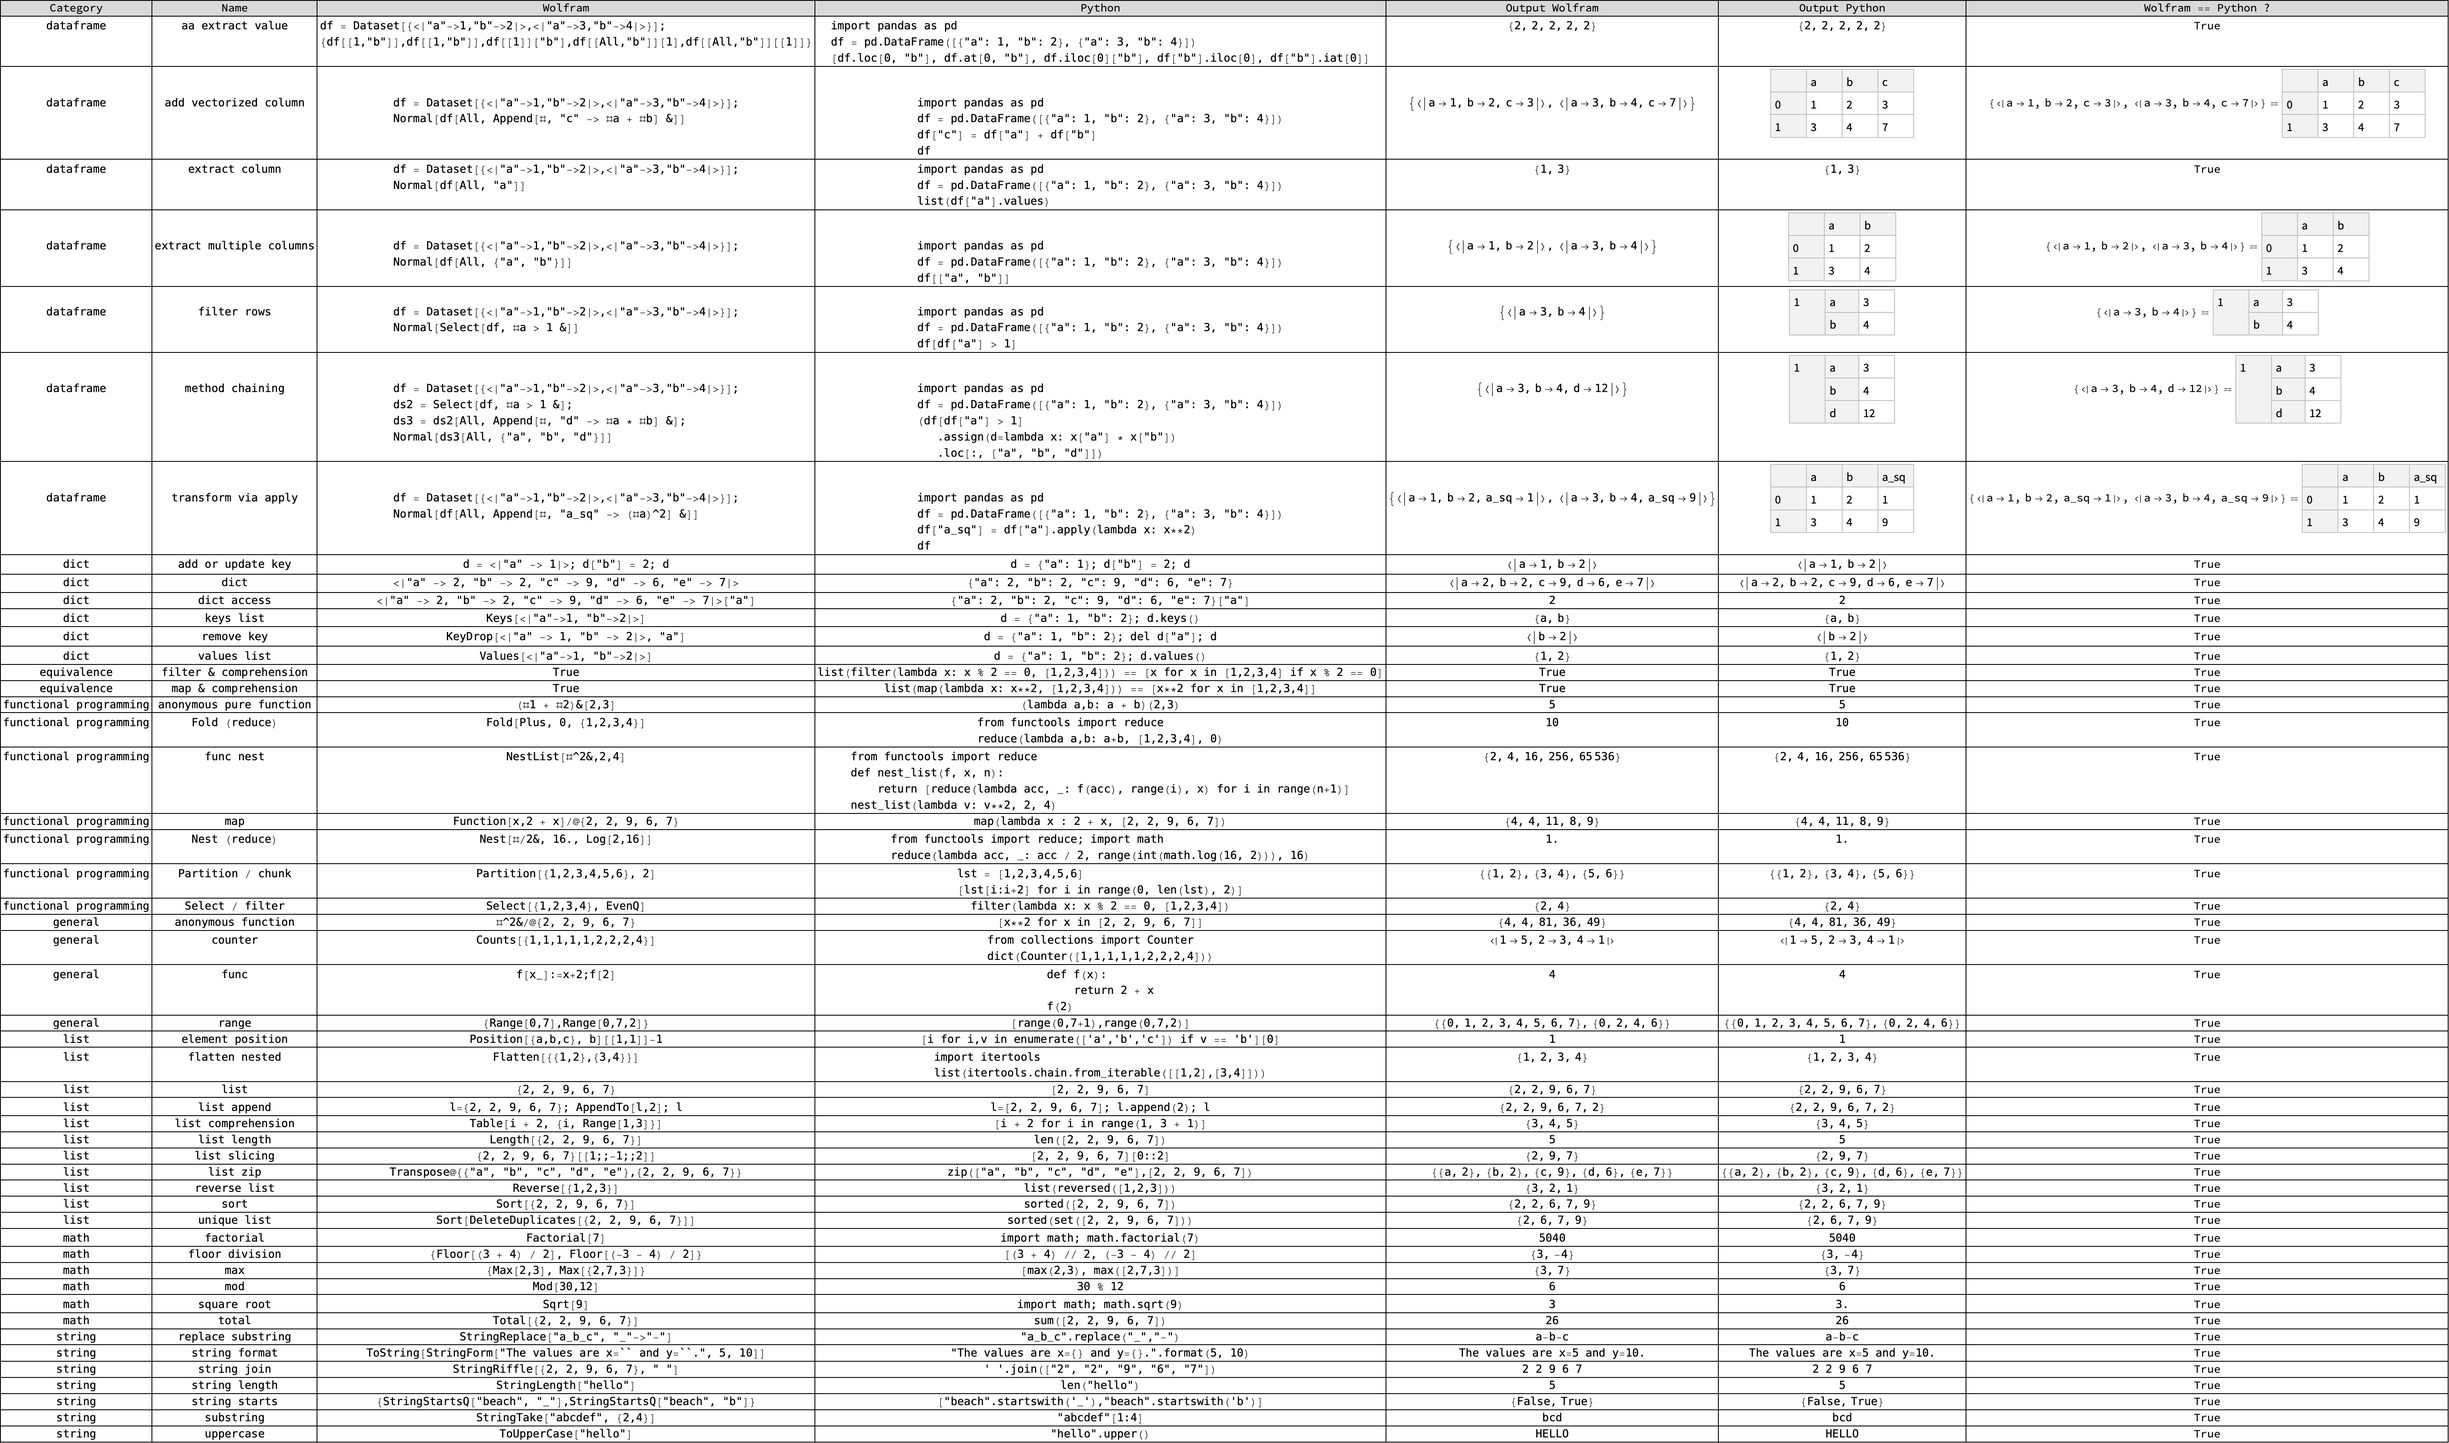
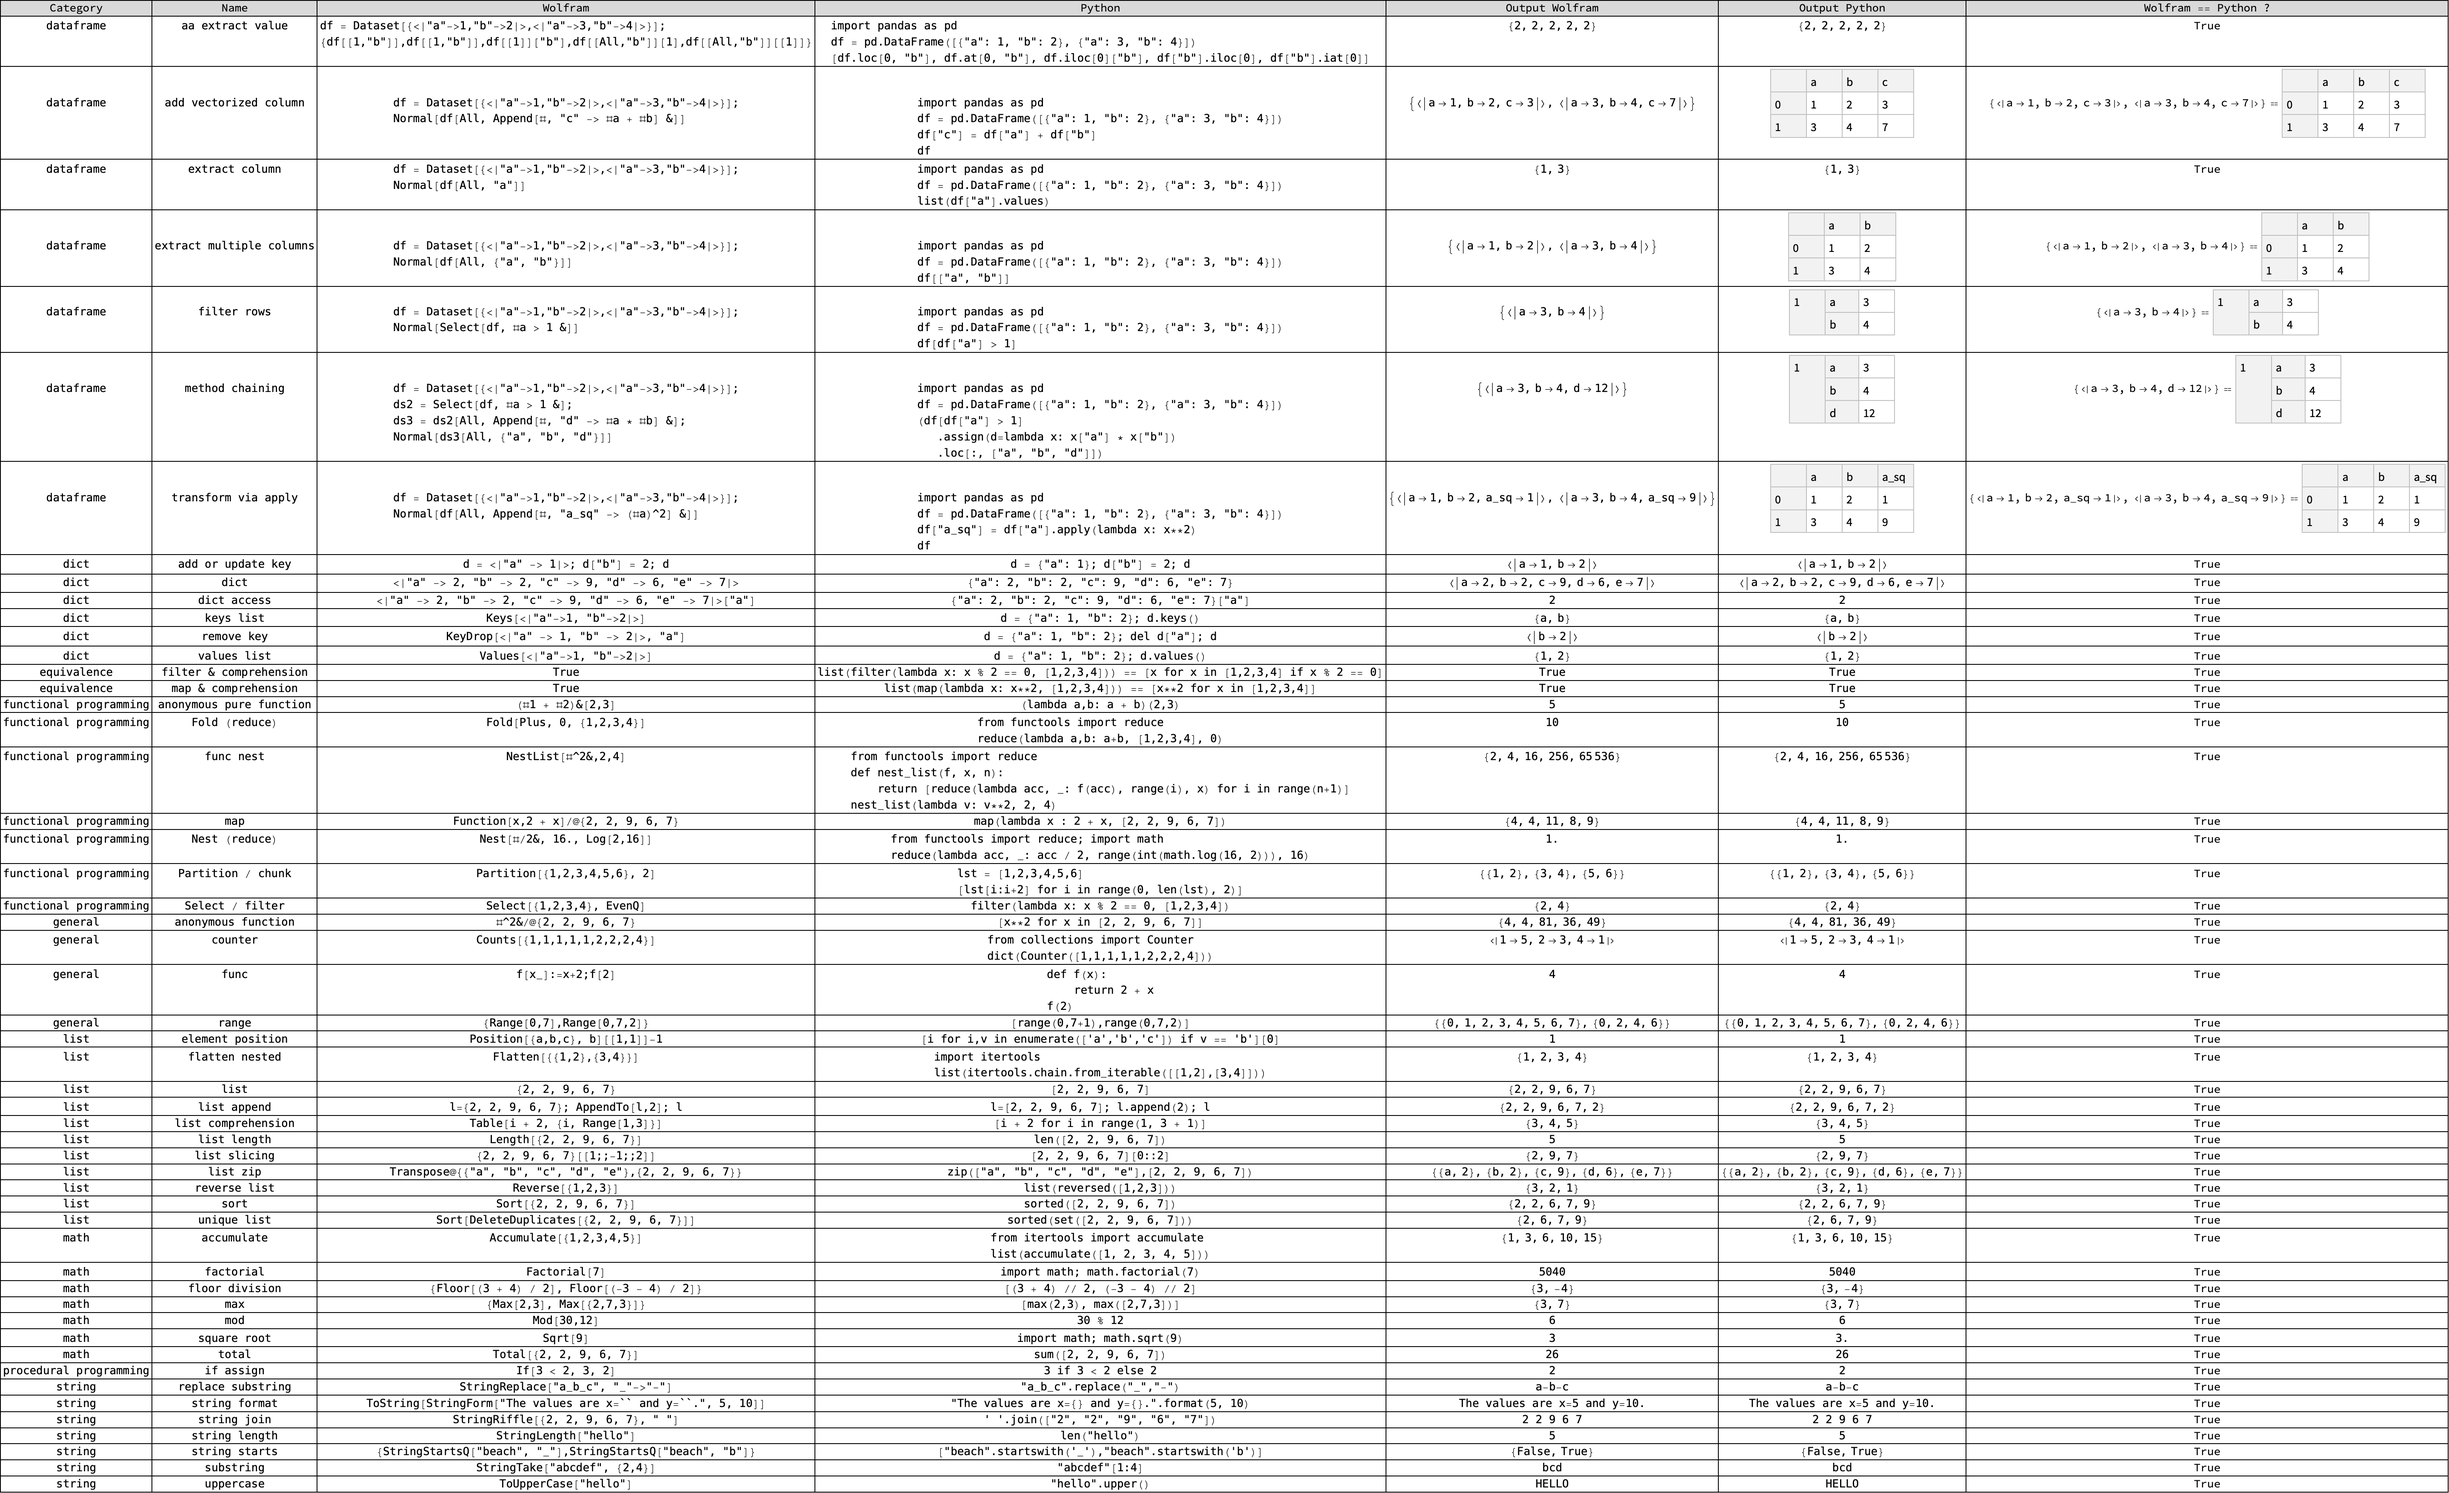
New cases

diff --git a/README.md b/README.md
@@ -76,6 +76,7 @@ unique list|<pre>Sort[DeleteDuplicates[{2, 2, 9, 6, 7}]]</pre>|<pre>sorted(set([
 
  Name | Wolfram | Python
 :---:|:---|:---
+accumulate|<pre>Accumulate[{1,2,3,4,5}]</pre>|<pre>from itertools import accumulate<br/>list(accumulate([1, 2, 3, 4, 5]))<br/></pre>
 factorial|<pre>Factorial[7]</pre>|<pre>import math; math.factorial(7)</pre>
 floor division|<pre>{Floor[(3 + 4) / 2], Floor[(-3 - 4) / 2]}</pre>|<pre>[(3 + 4) // 2, (-3 - 4) // 2]</pre>
 max|<pre>{Max[2,3], Max[{2,7,3}]}</pre>|<pre>[max(2,3), max([2,7,3])]</pre>
@@ -90,6 +91,7 @@ total|<pre>Total[{2, 2, 9, 6, 7}]</pre>|<pre>sum([2, 2, 9, 6, 7])</pre>
 break/exit loop|<pre>For[i = 1, i < 10, i++, If[i > 5, Break[]]]</pre>|<pre>for i in range(1,10):<br/>    if i > 5: break<br/></pre>
 for loop|<pre>Do[Print[i], {i, 1, 5}]</pre>|<pre>for i in range(1,6):<br/>    print(i)<br/></pre>
 if|<pre>If[3>2,Print["true"]]</pre>|<pre>if 3 > 2:<br/>    print("true")<br/></pre>
+if assign|<pre>If[3 < 2, 3, 2]</pre>|<pre>3 if 3 < 2 else 2</pre>
 while loop|<pre>i = 0; While[i < 5, i++; Print[i]]</pre>|<pre>i = 0<br/>while i < 5:<br/>    i += 1<br/>    print(i)<br/></pre>
 
 ## String
